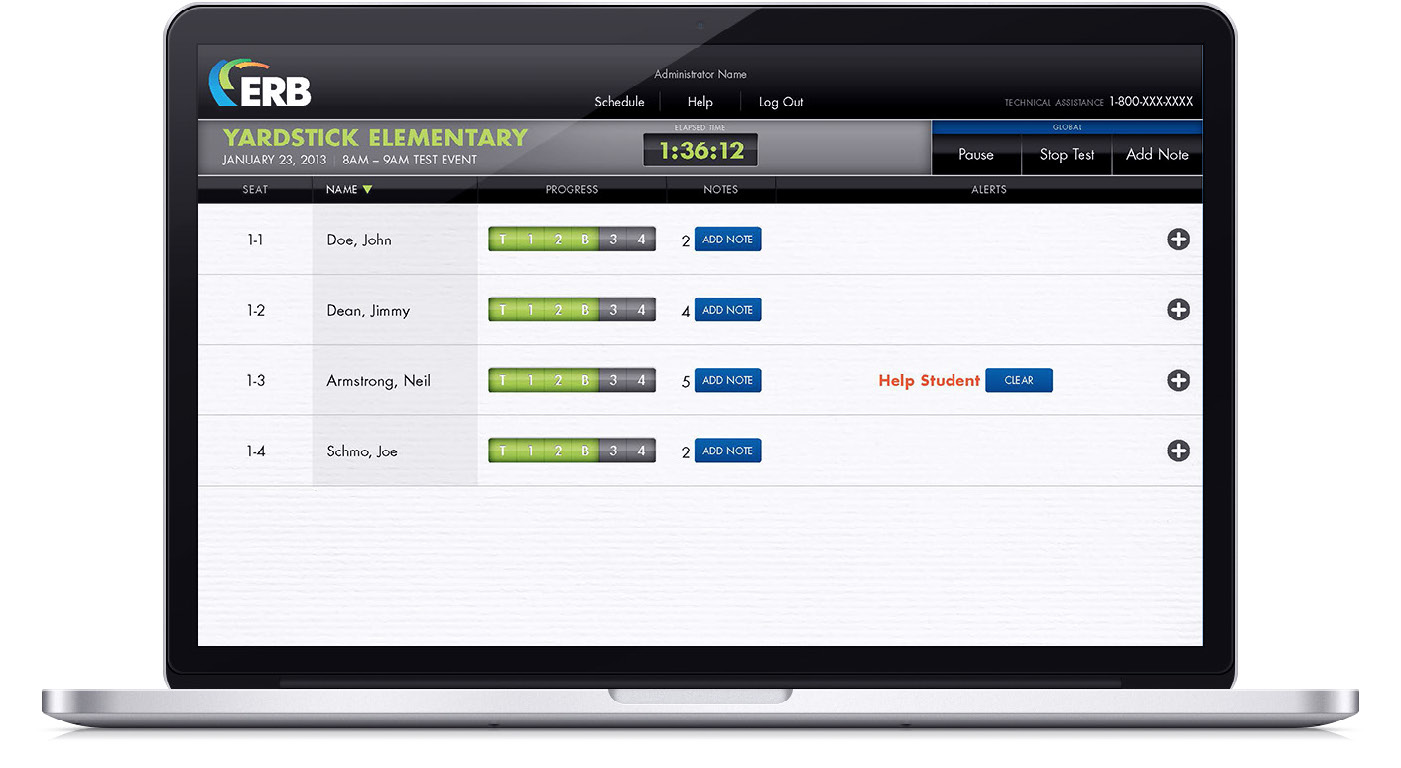
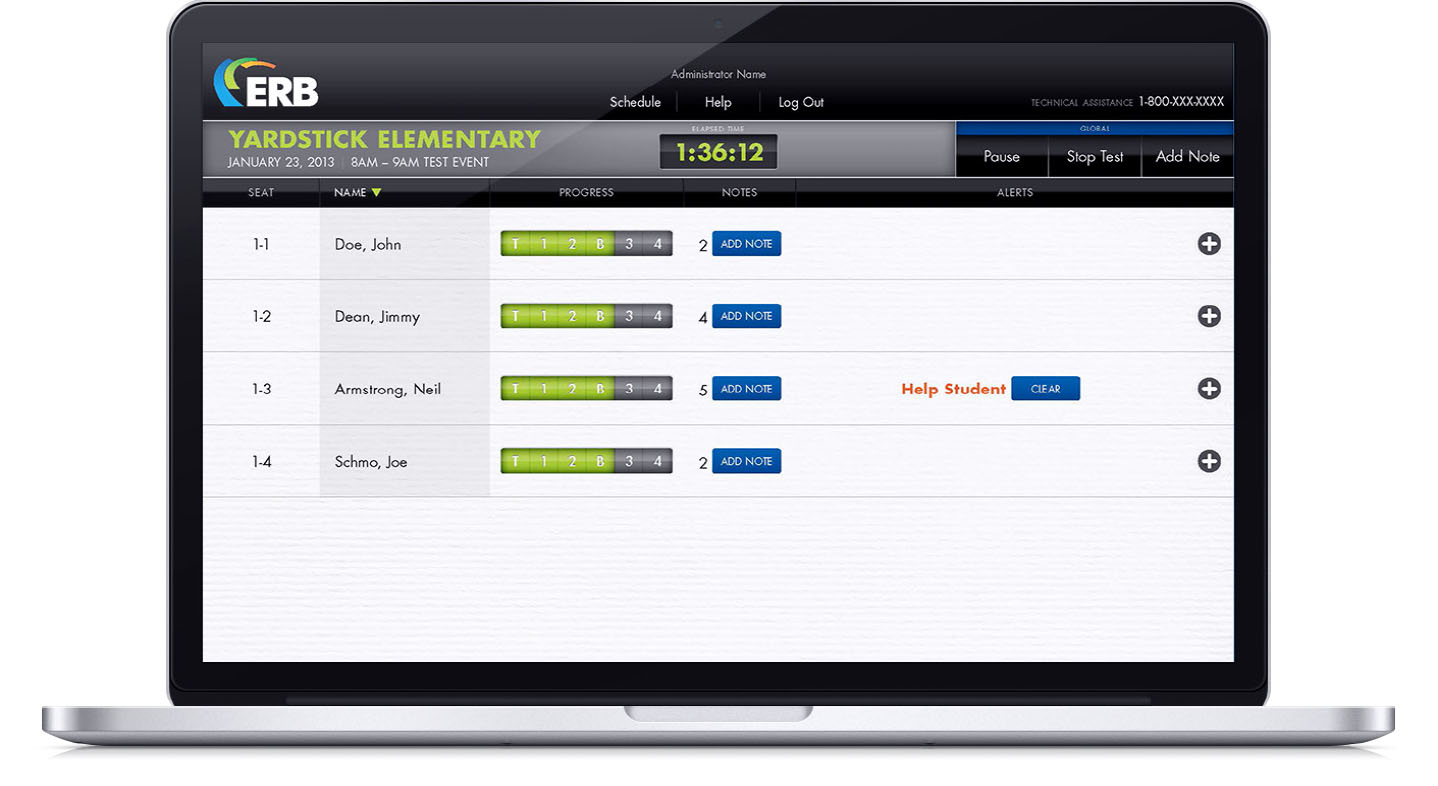
[dev] update all images on erb desktop

diff --git a/app/views/projects/erbBody.html b/app/views/projects/erbBody.html
@@ -133,9 +133,6 @@
                 <img class="mobile" src="images/erb/mobile/userMobile3.jpg">
                 <img class="mobile" src="images/erb/mobile/userMobile4.jpg">
                 <img class="desktop" src="images/erb/desktop/userDesktop1.jpg">
-                <img class="desktop" src="images/erb/desktop/userDesktop2.jpg">
-                <img class="desktop" src="images/erb/desktop/userDesktop3.jpg">
-                <img class="desktop" src="images/erb/desktop/userDesktop4.jpg">
             </div>
         </div>
     </div>

diff --git a/app/views/projects/erb.html b/app/views/projects/erb.html
@@ -20,7 +20,7 @@
               </div>
             </div>
           </div>
-          <img class="desktop erbScreenshot1" src="images/erb/desktop/appScreenshotDesktop1.jpg">
+          <img class="desktop erbScreenshot1" src="images/erb/desktop/appScreenshotDesktop1.png">
 
         </div>
       </div>
